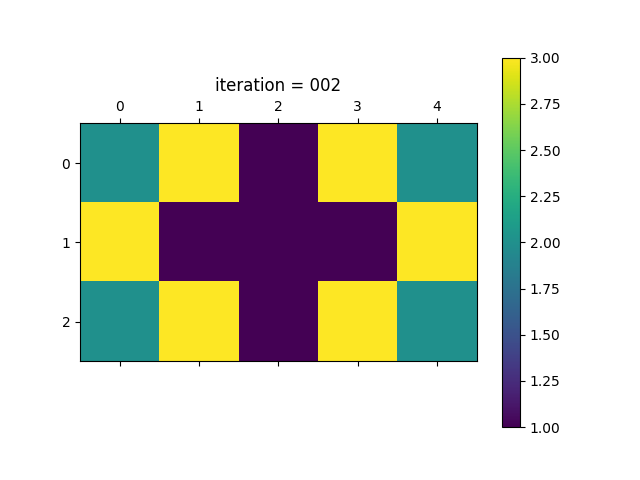
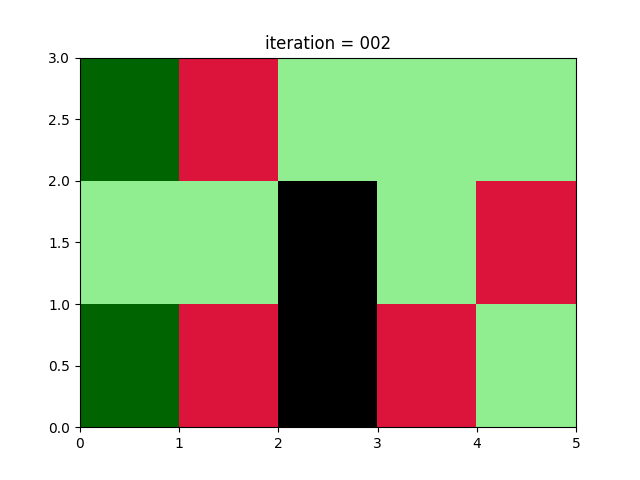
update

diff --git a/Lab01/wildfire.py b/Lab01/wildfire.py
@@ -6,101 +6,171 @@ To reproduce the plots shown in the lab report, do this...
 '''
 import numpy as np
 import matplotlib.pyplot as plt
+from matplotlib.colors import ListedColormap
 
-# # 1 - barren, 2 - forest, 3 - fire
-# nstep = 4 # Number of iterations
-# nx, ny = 3, 3 # Number of cells in X and Y direction.
-
-
-# # Create an initial grid, set all values to "2". dtype sets the value
-# # type in our array to integers only.
-# forest = np.zeros((nstep,nx,ny), dtype=int) + 2
-
-# # Create an array of randomly generated numbers of range [0,1)  
-# isbare = np.random.rand(nx,ny)
-
-# # IsBare into array of T/F values
-# isbare = isbare < prob_bare
-# forest[0,isbare] = 1
-
-# # Set the center cell to "burning":
-# forest[0, 1, 1] = 3
-
-
-# # Loop over every cell in the x and y directions.
-# for k in range(nstep) :
-#     for i in range(nx) :
-#         for j in range(ny) :
-#         # Roll our "dice" to see if we get a bare spot:
-#             if np.random.rand() < prob_bare:
-#                 forest[k,i,j] = 1  
-            
-######################
-
+# Set grid size and number of iterations
 nNorth = 3
 nEast = 3
 maxiter = 4
 
+# Set probabilities for different events
+
 prob_spread = 1.0 # Chance to spread to adjacent cells.
-prob_bare = 1.0 # Chance of cell to start as bare patch.
+prob_bare = 0.5 # Chance of cell to start as bare patch.
 prob_start = 1.0 # Chance of cell to start on fire.
-                
+prob_fatal = 0.5 # Chance that an infected cell has passed on
+
+# Function to simulate fire spread in n,e,s,w cardinal directions   
+             
 def full_fire_spread(nNorth = nNorth, nEast = nEast, maxiter = maxiter, prob_spread = prob_spread,
                       prob_bare = prob_bare, prob_start = prob_start):
-    #this function description, later p_bare, p_spread
-    #1) create forest
+    
+    # Initialize the forest grid, set all cells to 2 (default healthy state)
+
     forest = np.zeros((maxiter,nNorth,nEast), dtype=int) + 2
-    istart, jstart = nNorth//2, nEast//2
+    istart, jstart = nNorth//2, nEast//2  # Determine the center of the grid
+
+    # Determine which cells are bare patches
 
     isbare = np.random.rand(nNorth, nEast)
-    isbare = isbare <= prob_bare
-    forest[0,isbare] = 1
-    #random probability to start a fire
+    isbare = isbare <= prob_bare # logical mask for bare cells
+    forest[0,isbare] = 1 # Set bare patches to 1
     
-    if (np.random.rand() <= prob_start and forest[0, istart, jstart] != 1):
+    # Randomly start a fire in the center cell if it's not bare
+    
+    if (np.random.rand() <= prob_start):
         forest[0, istart, jstart] = 3
 
+    # Visualize the initial state
+        
     fig,ax = plt.subplots(1,1)
-    contour = ax.matshow(forest[0,:,:], vmin=1, vmax=3)
+    forest_cmap = ListedColormap(['tan', 'darkgreen', 'crimson',])
+    ax.pcolor(forest[0,:,:], cmap=forest_cmap, vmin=1, vmax=3)
     ax.set_title(f'iteration = {0:03d}')
-    plt.colorbar(contour, ax=ax)
+
+    # Loop through each iteration
 
     for k in range(maxiter-1) :
-        ignite = np.random.rand(nNorth, nEast)
+        ignite = np.random.rand(nNorth, nEast) # Random spread probability
 
-        forest[k+1,:,:] = forest[k,:,:]
+        forest[k+1,:,:] = forest[k,:,:] # Copy the previous state into the next state
 
-       # North
+       # Spread to the North using logical masking
+        
         doburnN = (forest[k, :-1, :] == 3) & (forest[k, 1:, :] == 2) & (ignite[1:, :] <= prob_spread)
         forest[k+1, 1:, :][doburnN] = 3
 
-        # South
+        # Spread to the South using logical masking
+
         doburnS = (forest[k, 1:, :] == 3) & (forest[k, :-1, :] == 2) & (ignite[:-1, :] <= prob_spread)
         forest[k+1, :-1, :][doburnS] = 3
 
-        # East
+        # Spread to the East using logical masking
+
         doburnE = (forest[k, :, :-1] == 3) & (forest[k, :, 1:] == 2) & (ignite[:, 1:] <= prob_spread)
         forest[k+1, :, 1:][doburnE] = 3
 
-        # West
+        # Spread to the West using logical masking
+
         doburnW = (forest[k, :, 1:] == 3) & (forest[k, :, :-1] == 2) & (ignite[:, :-1] <= prob_spread)
         forest[k+1, :, :-1][doburnW] = 3
 
+        # Update previously burning cells to bare ground (state 1)
+
         wasburn = forest[k,:,:] == 3
         forest[k+1, wasburn] = 1
+        
+        # Visualize the current state
 
         fig,ax = plt.subplots(1,1)
-        contour = ax.matshow(forest[k+1,:,:], vmin=1, vmax=3)
+        forest_cmap = ListedColormap(['tan', 'darkgreen', 'crimson',])
+        ax.pcolor(forest[k+1,:,:], cmap=forest_cmap, vmin=1, vmax=3)
         ax.set_title(f'iteration = {k+1:03d}')
-        plt.colorbar(contour, ax=ax)
 
         fig.savefig(f'fig{k:04d}.png')
         plt.show()
         plt.close('all')
 
-        #quit once all fires are out
+        # Quit if all fires are out
         nBurn = (forest[k+1,:,:] == 3).sum()
         if nBurn == 0:
+            print(f"burn completed in {k+1} steps")
+            break
+
+    return k+1
+
+#---------------------------------------
+
+# Function to simulate disease spread
+
+def full_disease_spread(nNorth = nNorth, nEast = nEast, maxiter = maxiter, prob_spread = prob_spread,
+                      prob_bare = prob_bare, prob_start = prob_start, prob_fatal = prob_fatal):
+    
+    # Initialize the disease grid, set all cells to 2 (default healthy state)
+
+    disease = np.zeros((maxiter,nNorth,nEast), dtype=int) + 2
+    istart, jstart = nNorth//2, nEast//2  # Determine the center of the grid
+
+    # Determine which cells are bare patches
+
+    isbare = np.random.rand(nNorth, nEast)
+    isbare = isbare <= prob_bare # logical mask for bare cells
+    disease[0,isbare] = 1 # Set bare patches to 1
+
+    isfatal = np.random.rand(nNorth, nEast)
+    isfatal = isfatal <= prob_fatal
+    
+    if (np.random.rand() <= prob_start):
+        disease[0, istart, jstart] = 3
+
+    fig,ax = plt.subplots(1,1)
+    forest_cmap = ListedColormap(['black','lightgreen', 'darkgreen', 'crimson',])
+    ax.pcolor(disease[0,:,:], cmap=forest_cmap, vmin=0, vmax=3)
+    ax.set_title(f'iteration = {0:03d}')
+
+    for k in range(maxiter-1) :
+        ignite = np.random.rand(nNorth, nEast)
+
+        disease[k+1,:,:] = disease[k,:,:]
+
+       # North
+        doburnN = (disease[k, :-1, :] == 3) & (disease[k, 1:, :] == 2) & (ignite[1:, :] <= prob_spread)
+        disease[k+1, 1:, :][doburnN] = 3
+
+        # South
+        doburnS = (disease[k, 1:, :] == 3) & (disease[k, :-1, :] == 2) & (ignite[:-1, :] <= prob_spread)
+        disease[k+1, :-1, :][doburnS] = 3
+
+        # East
+        doburnE = (disease[k, :, :-1] == 3) & (disease[k, :, 1:] == 2) & (ignite[:, 1:] <= prob_spread)
+        disease[k+1, :, 1:][doburnE] = 3
+
+        # West
+        doburnW = (disease[k, :, 1:] == 3) & (disease[k, :, :-1] == 2) & (ignite[:, :-1] <= prob_spread)
+        disease[k+1, :, :-1][doburnW] = 3
+
+        wasinfected = disease[k,:,:] == 3
+        
+        is_fatal_now = (disease[k, :, :] == 3) & (isfatal)
+
+        # Update the disease state: tiles that meet the fatal condition turn into 0
+        disease[k+1, is_fatal_now] = 0
+
+        # Otherwise, the infected tiles turn back to 1 (recover + immune)
+        disease[k+1, wasinfected & ~is_fatal_now] = 1
+        
+        fig,ax = plt.subplots(1,1)
+        #contour = ax.matshow(disease[k+1,:,:], vmin=0, vmax=3)
+        ax.set_title(f'iteration = {k+1:03d}')
+        forest_cmap = ListedColormap(['black','lightgreen', 'darkgreen', 'crimson',])
+        ax.pcolor(disease[k+1,:,:], cmap=forest_cmap, vmin=0, vmax=3)
+        fig.savefig(f'fig{k:04d}.png')
+        plt.show()
+        plt.close('all')
+
+        #quit once all fires are out
+        ndiseases = (disease[k+1,:,:] == 3).sum()
+        if ndiseases == 0:
             print(f"burn completed in {k+1} steps")
             break
 
@@ -111,8 +181,9 @@ def explore_burnrate():
     nsteps = np.zeros(prob.size)
     for i,p in enumerate(prob):
         print(f"Burning for pspread = {p}")
-        nsteps[i] = full_fire_spread()
+        #nsteps[i] = full__fire_spread()
 
     plt.plot(prob,nsteps)
 
-full_fire_spread(3,5,6)
+#full_fire_spread(3,5,6)
+full_disease_spread(3,5,6)
